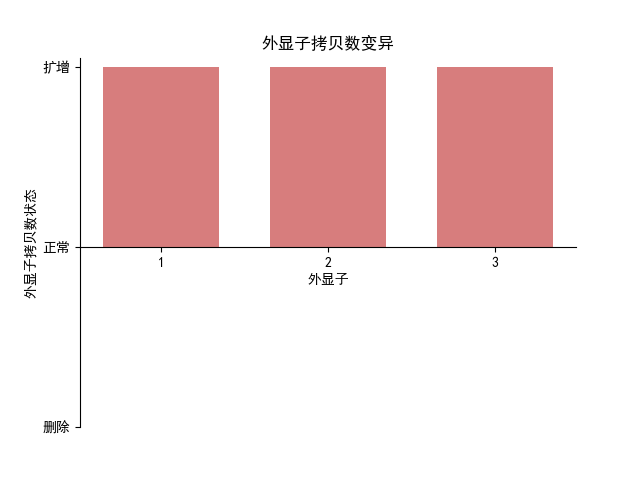
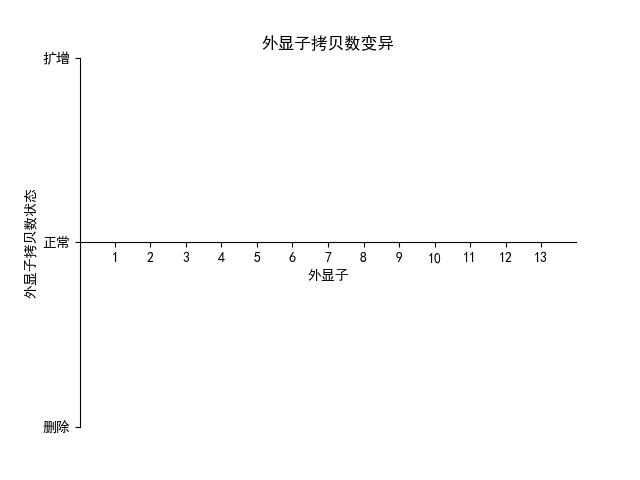
正常的区域的reads count也在结果中显示

Changed region(s): [[0.0625, 0.125, 0.9062, 0.5938], [0.0625, 0.0938, 0.125, 0.1562]]

diff --git a/designer/detectionCNV.py b/designer/detectionCNV.py
@@ -116,14 +116,15 @@ class DetectionCNV(QThread):
         for cur in range(len(searchIdx)):
             realIdx = searchIdx[cur]+searchIdxStart
             if self.mask[realIdx]:
+                idx.append(realIdx)
+                region.append(searchRegion[cur])
                 if realIdx in self.gain_idx :
-                    idx.append(realIdx)
-                    region.append(searchRegion[cur])
                     flag.append(1)
                 elif realIdx in self.loss_idx:
-                    idx.append(realIdx)
-                    region.append(searchRegion[cur])
                     flag.append(-1)
+                else:
+                    flag.append(0)
+
 
 
 
@@ -166,7 +167,6 @@ class DetectionCNV(QThread):
             for cur in range(len(idx)):
                 x_data.append(str(cur+1))
                 y_refMean.append(self.refMean[idx[cur]])
-                y_refMedian.append(self.refMedian[idx[cur]])
                 y_test.append(self.testSample[idx[cur]])
             plt.bar(x, y_refMean,bar_width, label='ref外显子reads count均值',align="center", color='indianred', alpha=0.8)
             plt.bar(x+bar_width, y_test,bar_width, label='test样本外显子reads count',align="center", color='steelblue', alpha=0.8)
@@ -276,7 +276,7 @@ class DetectionCNV(QThread):
         ref_maskedData = allData[mask, :]
         sumPerSample = np.sum(ref_maskedData, 0)
         medianSamples = np.median(sumPerSample)
-        tmpdata = allData * 1.0 / sumPerSample * medianSamples
+        tmpdata = allData / sumPerSample * medianSamples
         tmp_std = np.std(tmpdata, axis=1)
         tmp_mean = np.mean(tmpdata, axis=1)
         for i in range(allData.shape[0]):
@@ -290,7 +290,7 @@ class DetectionCNV(QThread):
         ref_maskedData = allData[mask, :]
         sumPerSample = np.sum(ref_maskedData, 0)
         medianSamples = np.median(sumPerSample)
-        ref_maskedData = ref_maskedData * 1.0 / sumPerSample * medianSamples
+        ref_maskedData = ref_maskedData / sumPerSample * medianSamples
 
         npzdata_test = np.load("file/6137_01A_v2hg38.npz")
         testsamplesData = npzdata_test['allData']
@@ -298,7 +298,7 @@ class DetectionCNV(QThread):
 
         testsamplesData = testsamplesData[mask, :]
         testSumReads = np.sum(testsamplesData, 0)
-        testsamplesData = testsamplesData * 1.0 / testSumReads * medianSamples
+        testsamplesData = testsamplesData / testSumReads * medianSamples
         refsamples_num = ref_maskedData.shape[1]
         testsamples_num = testsamplesData.shape[1]
         for i_testsample in range(testsamples_num):
@@ -317,8 +317,8 @@ class DetectionCNV(QThread):
             maskedData = ref_maskedData[:, samples_mask]
 
             self.refMean=[]
-            self.refMedian = []
-            maskedData_median = np.median(maskedData, axis=1)
+            # self.refMedian = []
+            # maskedData_median = np.median(maskedData, axis=1)
             maskedData_mean = np.mean(maskedData, axis=1)
             self.testSample=[]
             self.mask = mask
@@ -326,12 +326,12 @@ class DetectionCNV(QThread):
             for i in range(sum):
                 if mask[i]:
                     self.refMean.append(maskedData_mean[j])
-                    self.refMedian.append(maskedData_median[j])
+                    # self.refMedian.append(maskedData_median[j])
                     self.testSample.append(testData[j])
                     j+=1
                 else:
                     self.refMean.append(0)
-                    self.refMedian.append(0)
+                    # self.refMedian.append(0)
                     self.testSample.append(0)
 
 
